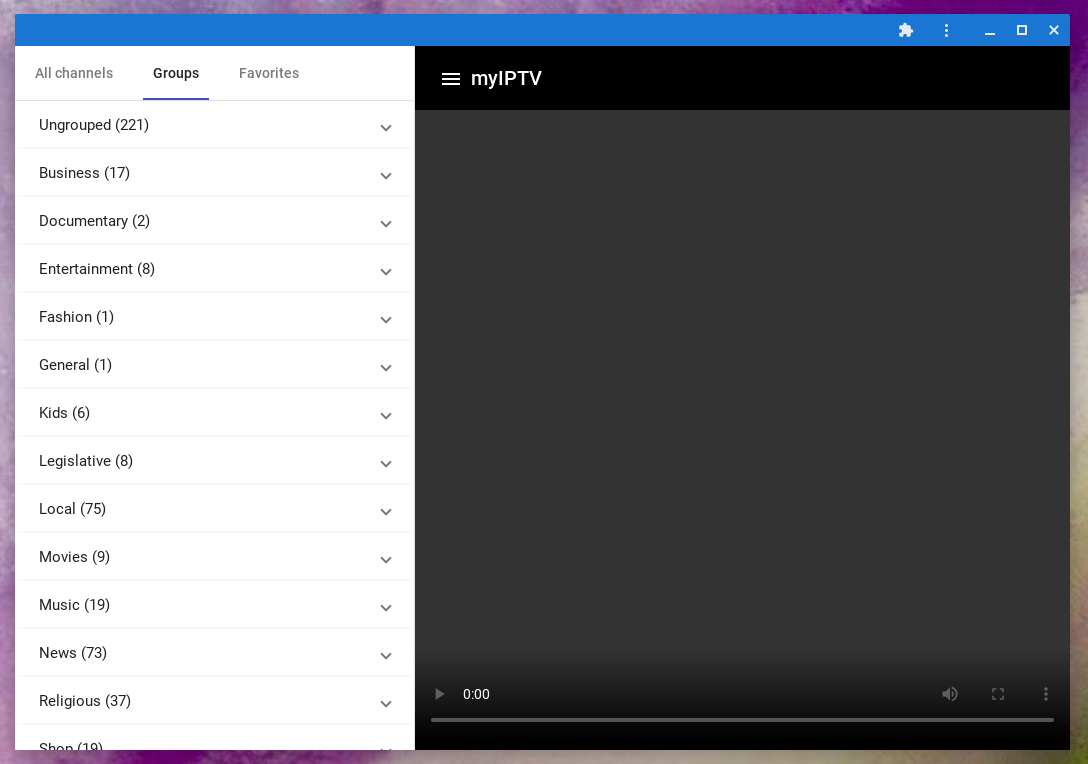
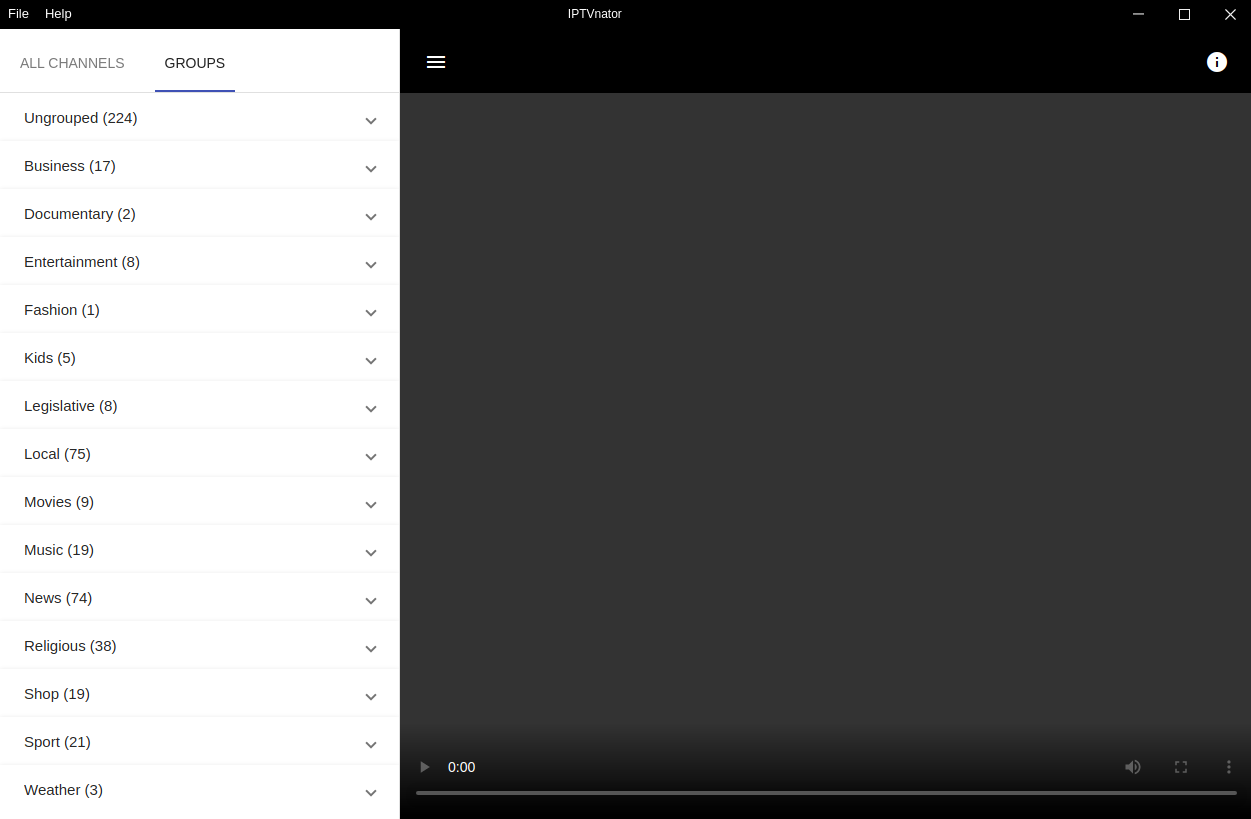
docs: update readme and screenshots

Changed region(s): [[0.0, 0.0, 1.0, 1.0], [0.2188, 0.0903, 0.2812, 0.1204]]

diff --git a/README.md b/README.md
@@ -1,10 +1,15 @@
-# IPTV Player PWA
+# IPTVnator - IPTV Player Application
+
+
+[![Get it from the Snap Store](https://snapcraft.io/static/images/badges/en/snap-store-black.svg)](https://snapcraft.io/iptvnator)
 
 |                       Select/upload a playlist                       |                   Main player interface                   |
 | :------------------------------------------------------------------: | :-------------------------------------------------------: |
 | ![List with added playlists and upload interface](./iptv-upload.png) | ![Sidebar with channel and video player](./iptv-main.png) |
 
-## Minimalistic IPTV player application developed as a cross-platform Electron application.
+**IPTVnator** is a video player application that provides support for IPTV playlists (m3u, m3u8). The application is an open source project based on Electron.
+
+First version of the application which was developed as a PWA is available in an extra git branch.
 
 **Features:**
 
@@ -13,4 +18,4 @@
 -   Upload remote playlists via URL
 -   Group-based channel list
 -   Search for channels
--   Save channels as favorites
+-   Save channels as favorites (DEV)
